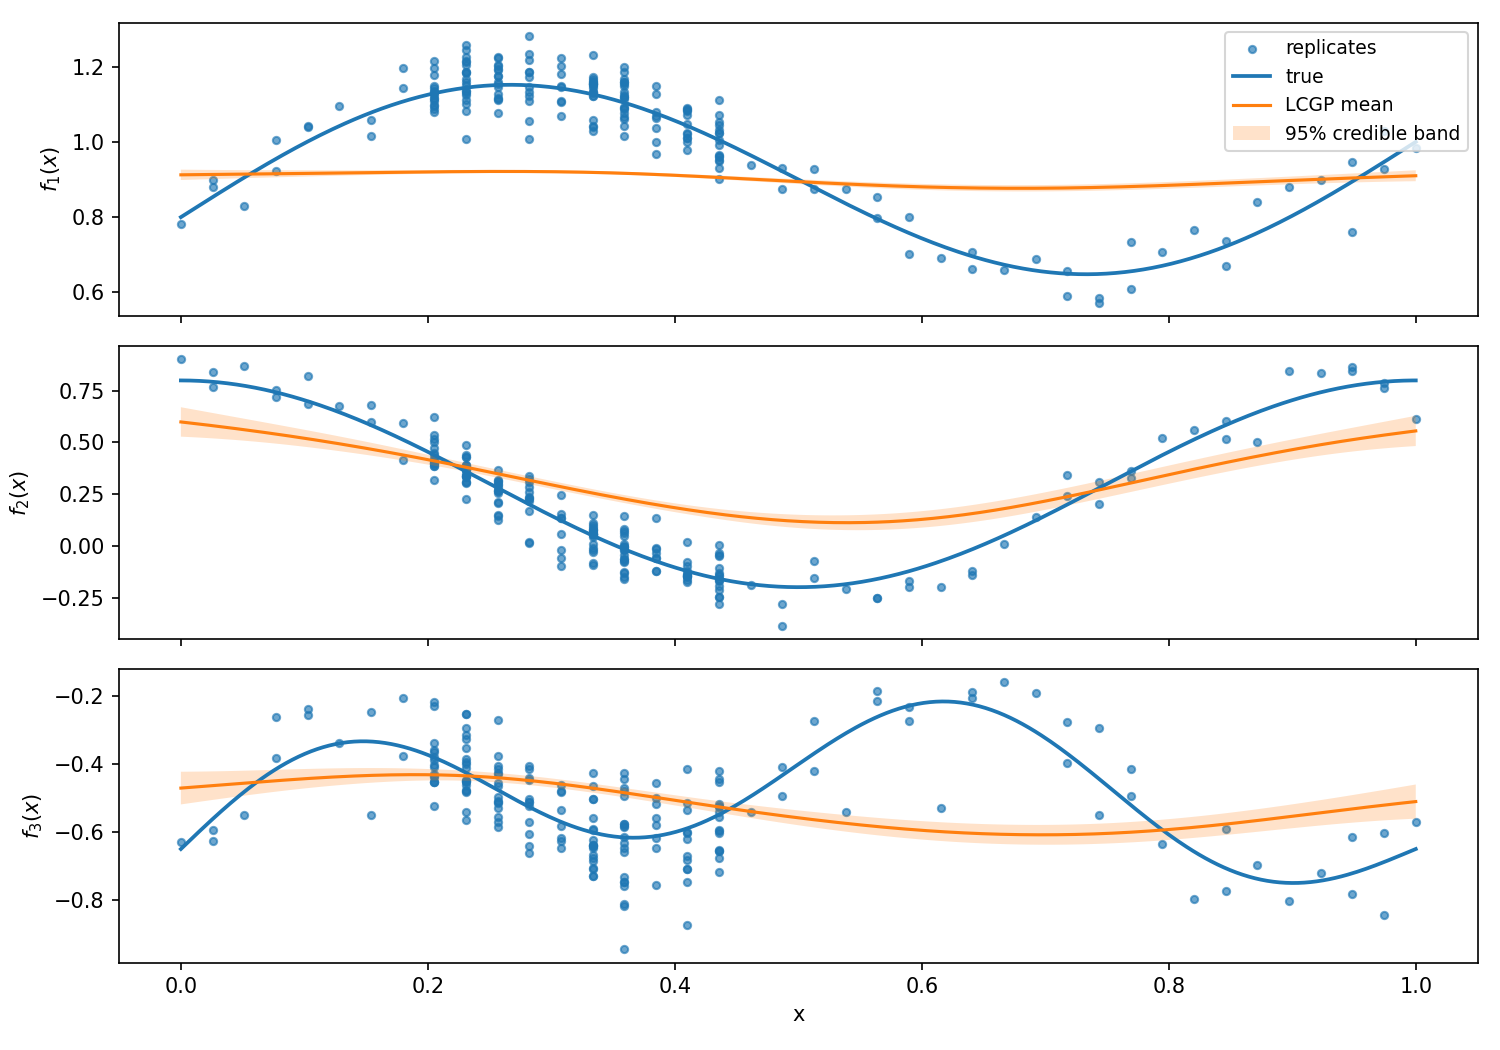
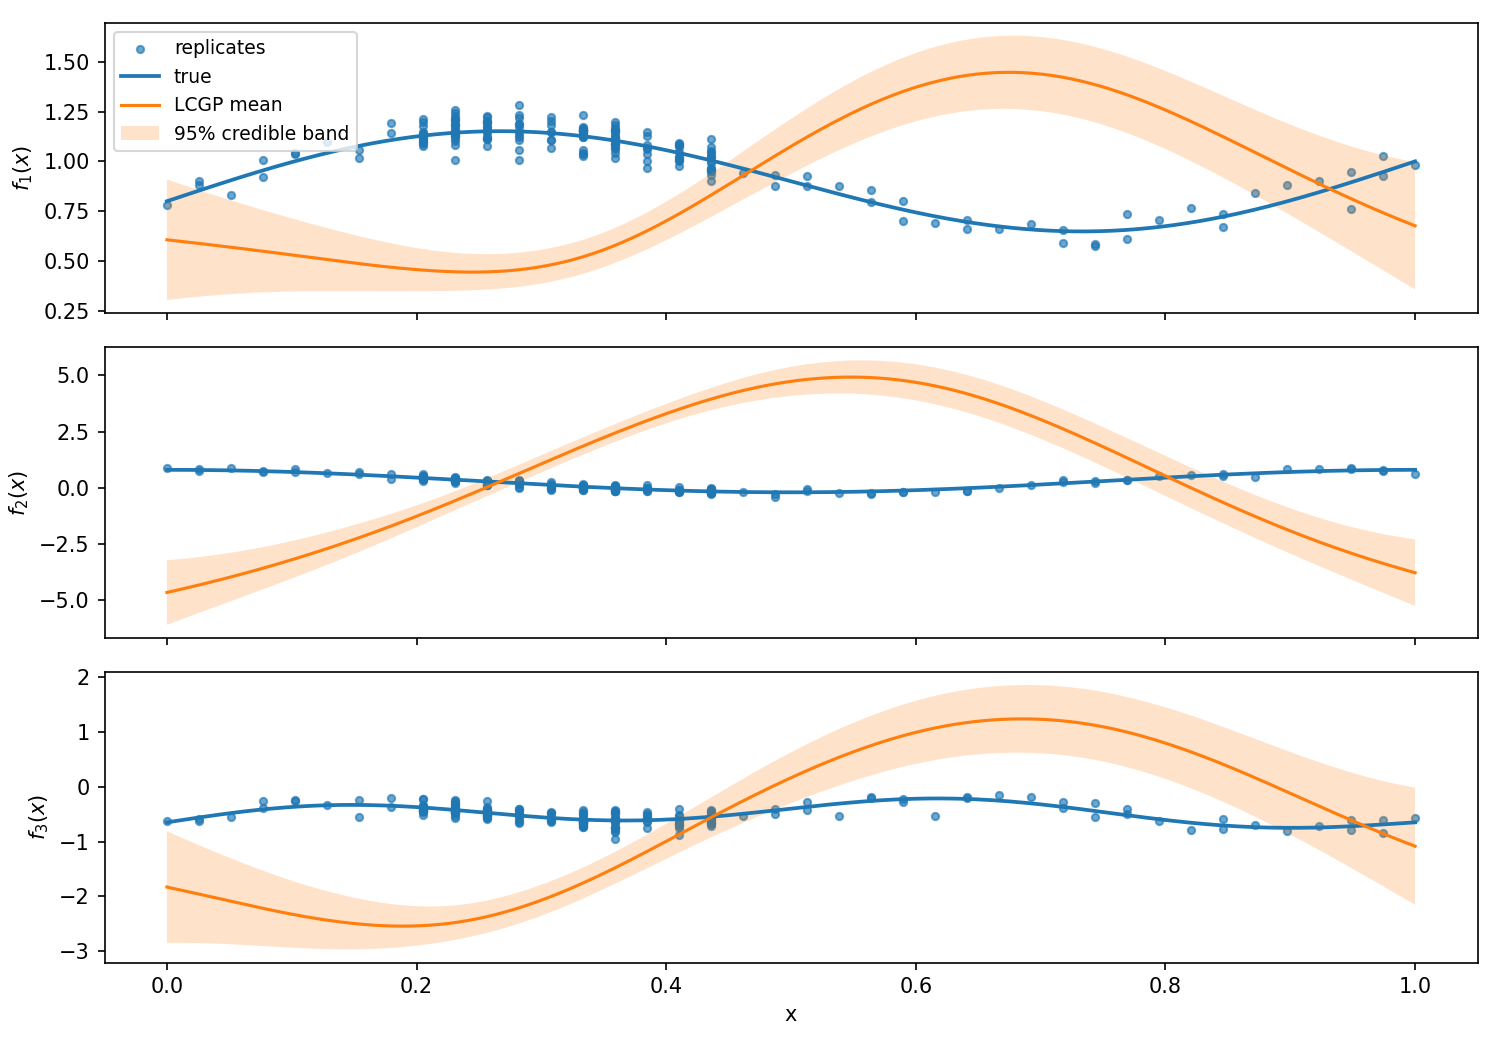
change imports to use lcgp rep

diff --git a/debug/call_model.py b/debug/call_model.py
@@ -1,5 +1,5 @@
 import numpy as np
-from lcgp import LCGP
+from lcgp.lcgp_rep import LCGP
 
 
 class LCGPRun:

diff --git a/debug/plot_debug_rep.py b/debug/plot_debug_rep.py
@@ -3,7 +3,7 @@ import tensorflow as tf
 import matplotlib.pyplot as plt
 from pathlib import Path
 
-from lcgp import LCGP 
+from lcgp.lcgp_rep import LCGP
 from debug.data_generation.read_debug_data import load_train_test_csv
 
 np.random.seed(42)

diff --git a/debug/run_debug_rep.py b/debug/run_debug_rep.py
@@ -1,6 +1,6 @@
 import numpy as np
 
-from lcgp import LCGP
+from lcgp.lcgp_rep import LCGP
 from debug.data_generation.read_debug_data import load_train_test_csv
 
 def main():